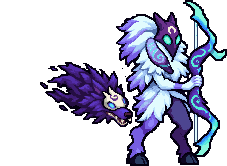
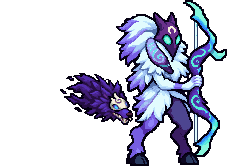
league_kindred design: Wolf at 55 %, Lamb to be shown 34 rows ear tips to hooves (the user: 模型还得缩小)

Changed region(s): [[0.1542, 0.3614, 0.5859, 0.7831]]

diff --git a/tools/art/design_kindred_hd.py b/tools/art/design_kindred_hd.py
@@ -3,7 +3,8 @@
 
     python tools/art/design_kindred_hd.py [--preview DIR]
 
-The user's picks (2026-10-14): picture B; the Wolf about 70 %; Lamb about 40 game rows, the picture read back 1:1 (no
+The user's picks (2026-10-14): picture B; the Wolf about 55 %; Lamb 34 game rows ear tips to hooves (「模型还得缩小」,
+85 % of the first 40), Zeri's density at the end (ppu_restyle); until then the picture read back 1:1 (no
 resampling of Lamb). So:
   1. picture B with a hard alpha (Codex's alpha never reached 255: a soft haze round both figures; >= ALPHA is figure);
   2. read back on its own grid (regrid.py's boundary search at SQ px: Codex drew ~5.5-px squares, not the 8 asked for;
@@ -37,7 +38,7 @@ OUT = os.path.join(SRC, "hd")
 SQ = 5.5
 K = 40
 ALPHA = 160
-WOLF_SCALE = 0.70
+WOLF_SCALE = 0.55               # the user: 70 % first, then 「狼再小一些」 (2026-10-14)
 NEAR = 8                      # a loose mane tuft lies within this many squares of the wolf's head + mane
 
 
